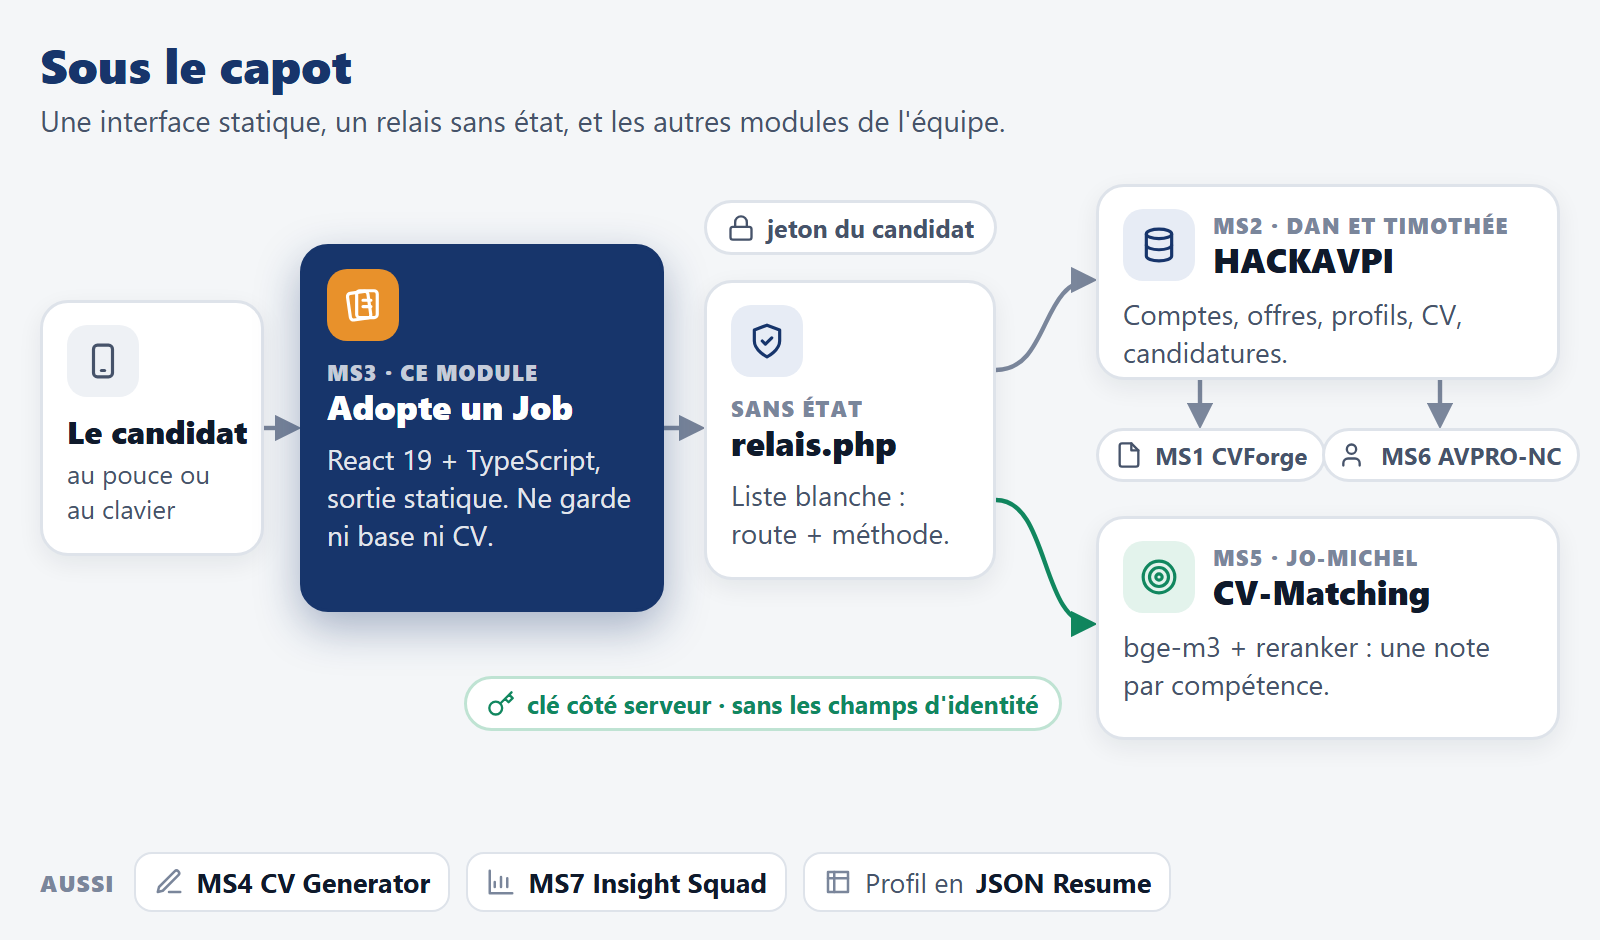
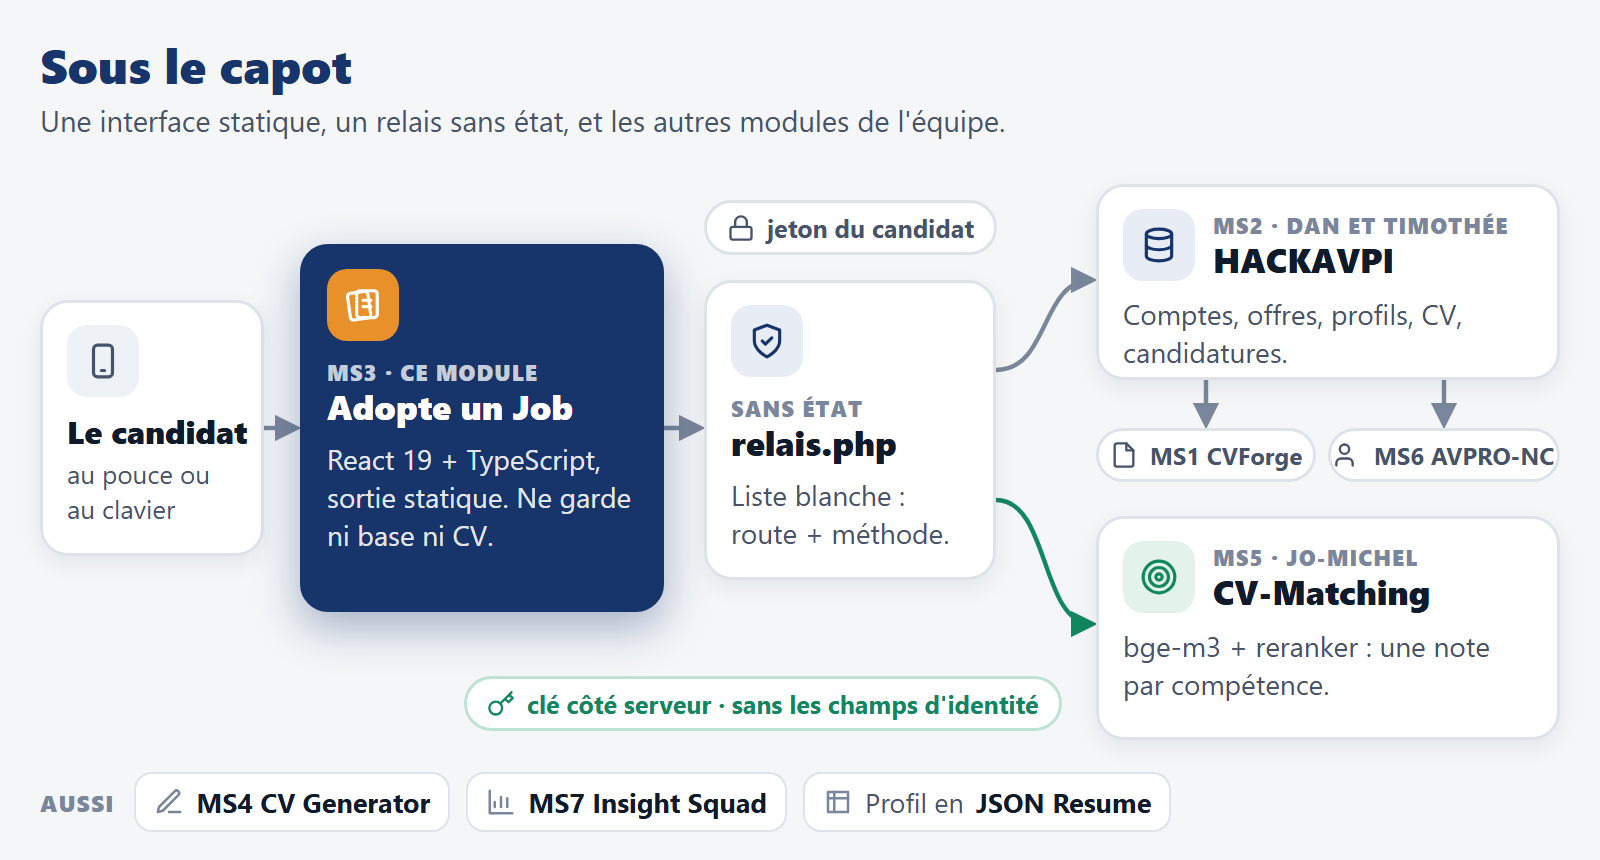
Phrase de source de l'adéquation exacte ; visuels recadrés et cohérents

diff --git a/beta/src/ecrans/Adequation.tsx b/beta/src/ecrans/Adequation.tsx
@@ -206,7 +206,7 @@ export function BlocAdequation({ offre: o, adequation: a }: { offre: Offre; adeq
       )}
 
       <p className="adq-source">
-        Calculé par CV-Matching à partir du contenu de ton profil, sans ton nom ni tes coordonnées.
+        Calculé par CV-Matching à partir de ton profil, sans les champs nom, e-mail, téléphone et adresse.
         C’est une indication, pas un verdict : rien ne t’empêche de candidater.
       </p>
     </section>
